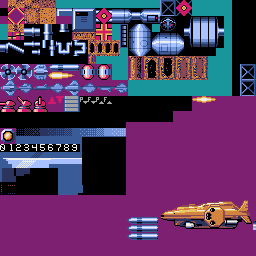
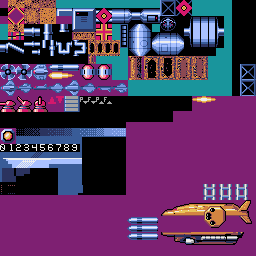
ステージ２ボス発進シーン変更（ぶちぶち）

Changed region(s): [[0.625, 0.7188, 1.0, 0.9688]]

diff --git a/source/boss.py b/source/boss.py
@@ -249,6 +249,95 @@ class Boss2Base(enemy.EnemyBase):
 		pyxel.blt(int(self.x), self.y, 1, 32 + self.pos*72, 224, 72, 32, gcommon.TP_COLOR)
 		
 
+#
+# bossOffsetX : ボスでの相対座標
+# toBaseOffsetX : bossOffsetからの総体座標
+class Boss2Wire:
+	def __init__(self, bossOffsetX, bossOffsetY, toBaseOffsetX, toBaseOffsetY, life, clr):
+		self.bossOffsetX = bossOffsetX
+		self.bossOffsetY = bossOffsetY
+		self.baseOffsetX =  toBaseOffsetX
+		self.baseOffsetY =  toBaseOffsetY
+		self.x = 0
+		self.y = 0
+		self.dx = 0
+		self.dy = 0
+		self.lx = 0
+		self.ly = 0
+		self.life = life
+		self.clr = clr
+
+boss2Base2ColorTable = [1, 3, 5, 6, 8, 11, 12]
+
+# ボス２固定台
+class Boss2Base2(enemy.EnemyBase):
+	def __init__(self, bossObj):
+		super(Boss2Base2, self).__init__()
+		self.bossObj = bossObj
+		self.x = bossObj.x
+		self.y = bossObj.y
+		self.left = 16
+		self.top = 8
+		self.right = 56
+		self.bottom = 23
+		self.layer = gcommon.C_LAYER_EXP_SKY
+		self.hp = 50
+		self.hitcolor1 = 3
+		self.hitcolor2 = 10
+		self.exptype = gcommon.C_EXPTYPE_GRD_M
+		self.hitCheck = False
+		self.shotHitCheck = False
+		self.initTable()
+
+	def initTable(self):
+		self.boss2BaseTable = []
+		rad = math.pi * 70/180
+		while(rad < math.pi * 120/180):
+			clr = boss2Base2ColorTable[random.randrange(len(boss2Base2ColorTable))]
+			self.boss2BaseTable.append(Boss2Wire(
+				40 + math.cos(rad) * (20 + random.random() * 30),
+				30 - math.sin(rad) * (15 + random.random() * 10),
+				48 +math.cos(rad) * (90 + random.random() * 30),
+				30 -math.sin(rad) * (60 + random.random() * 15),
+				400 + int(random.random() * 50),
+				clr
+				))
+			self.boss2BaseTable.append(Boss2Wire(
+				40 + math.cos(rad) * (20 + random.random() * 30),
+				20 + math.sin(rad) * (15 + random.random() * 10),
+				48 + math.cos(rad) * (90 + random.random() * 30),
+				20 + math.sin(rad) * (60 + random.random() * 15),
+				400 + int(random.random() * 50),
+				clr
+				))
+			rad += math.pi * 4/180
+
+
+	def update(self):
+		self.x -= gcommon.cur_scroll_x
+		if self.x < -72:
+			self.remove()
+			return
+		for item in self.boss2BaseTable:
+			if item.life > self.cnt:
+				item.x = self.bossObj.x + item.bossOffsetX
+				item.y = self.bossObj.y + item.bossOffsetY
+			elif item.life == self.cnt:
+				item.lx = abs(self.x + item.baseOffsetX -item.x)
+				item.ly = abs(self.y + item.baseOffsetY -item.y)
+				rad = math.atan2(self.y + item.baseOffsetY - item.y, self.x + item.baseOffsetX -item.x)
+				item.dx = math.cos(rad) * 4
+				item.dy = math.sin(rad) * 4
+			else:
+				item.x += item.dx * abs(self.x + item.baseOffsetX -item.x)/item.lx
+				item.y += item.dy * abs(self.y + item.baseOffsetY -item.y)/item.ly
+
+	def draw(self):
+		for item in self.boss2BaseTable:
+			# ボス -> ベース
+			pyxel.line(item.x, item.y, self.x + item.baseOffsetX, self.y + item.baseOffsetY, item.clr)
+		
+
 
 # 触手
 # dr: 生えてる角度
@@ -520,25 +609,27 @@ class Boss2(enemy.EnemyBase):
 		gcommon.ObjMgr.addObj(self.feelers[2])
 		gcommon.ObjMgr.addObj(self.feelers[3])
 		
-		self.upperBase = Boss2Base(self,0)
-		self.lowerBase = Boss2Base(self,1)
-		gcommon.ObjMgr.addObj(self.upperBase)
-		gcommon.ObjMgr.addObj(self.lowerBase)
+		#self.upperBase = Boss2Base(self,0)
+		#self.lowerBase = Boss2Base(self,1)
+		#gcommon.ObjMgr.addObj(self.upperBase)
+		#gcommon.ObjMgr.addObj(self.lowerBase)
+		self.bossBase = Boss2Base2(self)
+		gcommon.ObjMgr.addObj(self.bossBase)
 
 	def update(self):
 		if self.state == 0:
-			if self.x <= 168:
-				if self.upperBase.removeFlag == False:
-					self.upperBase.broken()
-				if self.lowerBase.removeFlag == False:
-					self.lowerBase.broken()
+			if self.x <= 170:
+				#if self.upperBase.removeFlag == False:
+				#	self.upperBase.broken()
+				#if self.lowerBase.removeFlag == False:
+				#	self.lowerBase.broken()
 				self.nextState()
 		elif self.state == 1:
-			if self.cnt == 120:
+			if self.cnt == 80:
 				self.layer = gcommon.C_LAYER_SKY
-				self.nextState()
-				self.dx = 0.25
+				self.dx = 0.05
 				self.dy = 0.0
+				self.nextState()
 		elif self.state == 2:
 			self.x += self.dx
 			self.y += self.dy
@@ -1047,3 +1138,20 @@ class Boss3Shot(enemy.EnemyBase):
 		# pyxel.rect(self.x+ self.left, self.y+self.top, self.right-self.left+1, self.bottom-self.top+1, 8)
 		pyxel.blt(self.x, self.y, 1, 192, 96, 24, 8, gcommon.TP_COLOR)
 
+class Boss4(enemy.EnemyBase):
+	def __init__(self, t):
+		super(Boss4, self).__init__()
+		self.x = 256
+		self.y = 100
+		self.layer = gcommon.C_LAYER_SKY
+		self.left = 2
+		self.top = 2
+		self.right = 24 -2-1
+		self.bottom = 4
+		self.spread = 0
+
+	def update(self):
+		self.x -= 1
+
+	def draw(self):
+		pyxel.blt(self.x, self.y, 1, 192, 96, 24, 8, gcommon.TP_COLOR)

diff --git a/source/gcommon.py b/source/gcommon.py
@@ -421,6 +421,9 @@ def getCenterY(obj):
 def getCenterPos(obj):
 	return [obj.x + obj.left + (obj.right -obj.left+1)/2, obj.y + obj.top + (obj.bottom -obj.top+1)/2]
 
+def getSize(obj):
+	return [obj.right -obj.left+1, obj.bottom -obj.top+1]
+
 class ObjMgr:
 	myShip = None
 	# 自機弾
